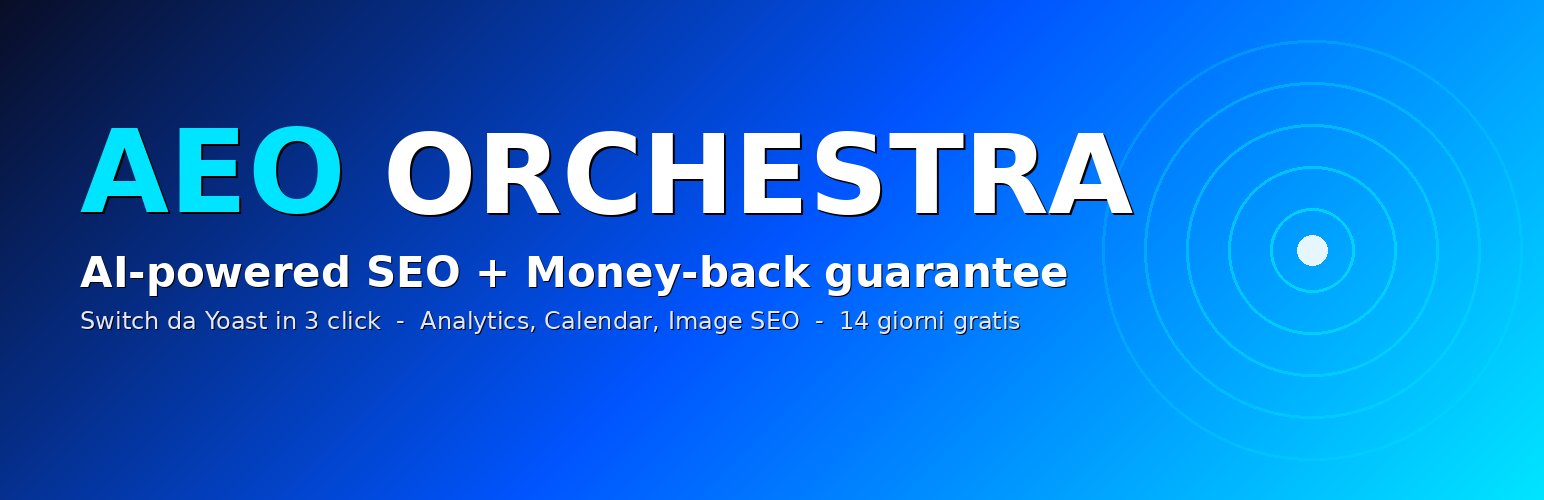
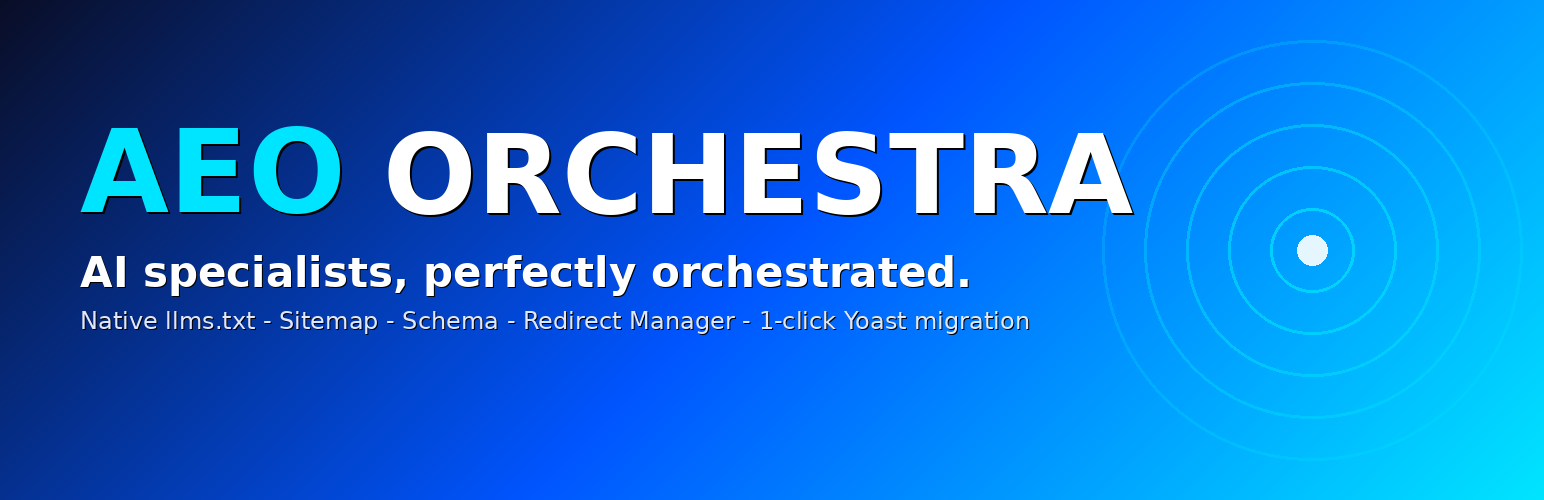
chore: sync Free build to v3.35.44 (canonical claim)
Mirror of WP.org submission seo-aeo-orchestra-wporg-3.35.44.zip:
- Plugin Version + readme.txt Stable tag bumped to 3.35.44
- Plugin description updated with canonical claim
- readme.txt new tagline + FAQ "How many AI agents and integrated tools"
- wizard-home.php: subtitle non-numerical + dynamic 4th hero stat tile
- PHP const SEO_AEO_AGENTS_COUNT=12 / SEO_AEO_TOOLS_COUNT=18 in main file
- Banners regenerated with new claim
- New product-image-800x500.png asset for marketplace listings
- Translations consolidated in 4 languages (en/es/fr/de)
- README.md updated: claim tagline + v3.35.44 release link + clone URL typo fix

Changed region(s): [[0.0311, 0.51, 0.715, 0.66]]

diff --git a/assets/wp-org/generate_assets.py b/assets/wp-org/generate_assets.py
@@ -174,13 +174,13 @@ def make_banner(width, height, out_path,
     # Tagline
     tag_y = logo_y + logo_size + line_gap
     draw_text_with_shadow(draw, (pad_left, tag_y),
-                          "AI-powered SEO + Money-back guarantee",
+                          "AI specialists, perfectly orchestrated.",
                           font_tag, fill=WHITE, shadow_offset=1)
 
     # Sub-tagline
     sub_y = tag_y + tag_size + int(line_gap * 0.6)
     draw_text_with_shadow(draw, (pad_left, sub_y),
-                          "Switch da Yoast in 3 click  -  Analytics, Calendar, Image SEO  -  14 giorni gratis",
+                          "Native llms.txt - Sitemap - Schema - Redirect Manager - 1-click Yoast migration",
                           font_sub, fill=SOFT, shadow_offset=1)
 
     img.save(out_path, "PNG", optimize=True)
@@ -228,6 +228,76 @@ def make_icon(size, out_path, corner_radius, mono_size_ratio=0.55):
     return out_path
 
 
+
+
+# ──────────────────────────────────────────────────────────────
+# Product Image 800x500 (for deal pages, marketplace listings)
+# ──────────────────────────────────────────────────────────────
+def make_product_image(width, height, out_path):
+    img = make_diagonal_gradient(width, height, GRADIENT_COLORS)
+    img = draw_wave_decoration(
+        img,
+        cx=int(width * 0.86),
+        cy=int(height * 0.5),
+        max_radius=int(height * 0.46),
+        color_hex=CYAN,
+        rings=5,
+    )
+    draw = ImageDraw.Draw(img)
+
+    pad_left = 56
+    # Logo block
+    logo_size = 64
+    aeo_size = int(logo_size * 1.05)
+    font_logo = find_font(logo_size, bold=True)
+    font_aeo = find_font(aeo_size, bold=True)
+    logo_y = 50
+    aeo_w = draw.textlength("AEO", font=font_aeo)
+    draw_text_with_shadow(draw, (pad_left, logo_y - 3), "AEO", font_aeo, fill=CYAN, shadow_offset=2)
+    draw_text_with_shadow(draw, (pad_left + int(aeo_w), logo_y), " ORCHESTRA", font_logo, fill=WHITE, shadow_offset=2)
+
+    # Eyebrow
+    font_eyebrow = find_font(16, bold=False)
+    draw_text_with_shadow(draw, (pad_left, logo_y + logo_size + 14),
+                          "AEO  -  SEO  -  GEO  for  WordPress",
+                          font_eyebrow, fill=SOFT, shadow_offset=1)
+
+    # Hero claim — main canonical line
+    font_hero = find_font(46, bold=True)
+    draw_text_with_shadow(draw, (pad_left, 220),
+                          "AI specialists,",
+                          font_hero, fill=WHITE, shadow_offset=2)
+    draw_text_with_shadow(draw, (pad_left, 270),
+                          "perfectly orchestrated.",
+                          font_hero, fill=CYAN, shadow_offset=2)
+
+    # Feature list
+    font_feat = find_font(20, bold=False)
+    draw_text_with_shadow(draw, (pad_left, 350),
+                          "Native llms.txt  -  Sitemap  -  Schema  -  Redirects  -  Brand Voice",
+                          font_feat, fill=SOFT, shadow_offset=1)
+
+    # Bottom dark chip with engines
+    chip_text = "Optimized for ChatGPT  -  Claude  -  Perplexity  -  Gemini  -  Google AI Overviews"
+    font_chip = find_font(15, bold=True)
+    bbox = draw.textbbox((0, 0), chip_text, font=font_chip)
+    chip_pad_x, chip_pad_y = 18, 10
+    chip_w = bbox[2] - bbox[0] + chip_pad_x * 2
+    chip_h = bbox[3] - bbox[1] + chip_pad_y * 2
+    chip_y = height - chip_h - 36
+    draw.rounded_rectangle(
+        [pad_left, chip_y, pad_left + chip_w, chip_y + chip_h],
+        radius=20,
+        fill=(10, 14, 39),
+        outline=(0, 229, 255),
+        width=1,
+    )
+    draw.text((pad_left + chip_pad_x, chip_y + chip_pad_y - 1), chip_text, font=font_chip, fill=WHITE)
+
+    img.save(out_path, "PNG", optimize=True)
+    return out_path
+
+
 def main():
     os.makedirs(OUT_DIR, exist_ok=True)
 
@@ -260,6 +330,12 @@ def main():
     p4 = os.path.join(OUT_DIR, "icon-128x128.png")
     make_icon(128, p4, corner_radius=12)
     results.append(p4)
+
+
+    # Product Image 800x500 (deal pages, marketplaces)
+    p5 = os.path.join(OUT_DIR, "product-image-800x500.png")
+    make_product_image(800, 500, p5)
+    results.append(p5)
 
     # Report
     for p in results:

diff --git a/languages/strings-en.php b/languages/strings-en.php
@@ -14,6 +14,24 @@ if ( ! defined( 'ABSPATH' ) ) { exit; }
  */
 return array(
 
+    'Specialisti AI orchestrati e strumenti integrati nel plugin. Cresce a ogni release.' => 'Orchestrated AI specialists and integrated tools in the plugin. Grows with every release.',
+    'Specialisti AI &middot; Strumenti' => 'AI Specialists &middot; Tools',
+    'Crea e gestisci redirect 301/302, importa da Yoast/Redirection, AI 404 suggester.' => 'Create and manage 301/302 redirects, import from Yoast/Redirection, AI 404 suggester.',
+    'Calendario AI' => 'AI Calendar',
+    'Pianifica articoli su date specifiche. AI genera N giorni prima, auto-pubblica. Bulk wizard.' => 'Schedule articles on specific dates. AI generates N days in advance, auto-publishes. Bulk wizard.',
+    'Image SEO' => 'Image SEO',
+    'Audit + bulk fix metadata immagini con AI Vision. Alt/title/caption auto-generati.' => 'Audit and bulk-fix image metadata with AI Vision. Alt/title/caption auto-generated.',
+    'Insights GSC + 5 KPI Orchestra proprietari. Sparkline period 7/28/90gg.' => 'GSC Insights and 5 proprietary Orchestra KPIs. Sparklines for 7/28/90 days.',
+    'Vedi quali pagine ricevono impressioni e clic da Google, l\'andamento giornaliero e l\'impatto di AEO Orchestra sul tuo posizionamento.' => 'See which pages get impressions and clicks from Google, daily trends, and how AEO Orchestra impacts your rankings.',
+    'Sostituisce il <head> di Yoast/RankMath/AIOSEO con output nativo Orchestra. Title, meta description, OpenGraph, Twitter Cards, canonical, sitemap.xml, llms.txt e schema JSON-LD strutturato.' => 'Replaces the <head> of Yoast/RankMath/AIOSEO with native Orchestra output. Title, meta description, OpenGraph, Twitter Cards, canonical, sitemap.xml, llms.txt and structured JSON-LD schema.',
+    'Gestisci redirect 301/302/307/308 con regex e backreferences, importa redirect da Yoast Premium o plugin Redirection, AI 404 suggester.' => 'Manage 301/302/307/308 redirects with regex and backreferences, import from Yoast Premium or the Redirection plugin, AI 404 suggester.',
+    'Caricamento Redirect Manager…' => 'Loading Redirect Manager…',
+    'Trova le pagine in conflitto sulla stessa keyword. L\'AI propone una pagina primaria, suggerisce keyword alternative per le supporting e link interni — il tutto applicabile con un click, sempre reversibile.' => 'Find pages competing for the same keyword. AI picks a primary page, suggests alternative keywords for supporting pages, and proposes internal links — all applicable with one click, always reversible.',
+    '2 articoli a settimana' => '2 articles per week',
+    '3 articoli a settimana' => '3 articles per week',
+    'Seleziona tutti i pianificati' => 'Select all scheduled',
+    'Elimina selezionati' => 'Delete selected',
+    'Specialisti AI orchestrati. Clicca per andare alla sezione.' => 'Orchestrated AI specialists. Click to jump to a section.',
     // ─── Submenu admin labels ───
     '📊 Dashboard'           => '📊 Dashboard',
     '🪄 Wizard'              => '📊 Dashboard',
@@ -62,7 +80,6 @@ return array(
     '→ Apri Orchestratore'                                                               => '→ Open Orchestrator',
 
     '🧩 Tutte le sezioni del plugin'         => '🧩 All plugin sections',
-    '11 strumenti integrati. Clicca per andare alla sezione.' => '11 integrated tools. Click to jump to a section.',
 
     // Cards descriptions in feature grid
     'Orchestratore'           => 'Orchestrator',
@@ -937,7 +954,6 @@ return array(
     'cliché 1, cliché 2, ...'            => 'cliché 1, cliché 2, ...',
 
     // ─── PHP wrapped (wizard-home + dashboard) ───
-    '15 strumenti integrati. Clicca per andare alla sezione.' => '15 integrated tools. Click to jump to the section.',
     '25 crediti'                         => '25 credits',
     'Funzioni dello stack Native attive: Output Renderer, Override Mode, Sitemap.xml, llms.txt, Schema, Redirect Manager. Più sono attive, più Yoast/RankMath sono sostituiti.' => 'Active Native stack features: Output Renderer, Override Mode, Sitemap.xml, llms.txt, Schema, Redirect Manager. The more active, the more Yoast/RankMath is replaced.',
     'Hai già un plugin SEO? Il Wizard fa shadow-copy reversibile dei tuoi meta + redirect e attiva lo stack Native — Yoast resta installato e silenziato (Override Mode). Niente perdita di ranking, niente downtime, e puoi tornare indietro in 30 secondi se cambi idea. Se preferisci testare prima senza migrare, salta questo step e prova le altre funzioni: Orchestra coesiste con Yoast.' => 'Already have an SEO plugin? The Wizard makes a reversible shadow-copy of your meta + redirects and activates the Native stack — Yoast stays installed but silenced (Override Mode). No ranking loss, no downtime, and you can roll back in 30 seconds if you change your mind. If you prefer to test without migrating first, skip this step and try the other features: Orchestra coexists with Yoast.',

diff --git a/seo-aeo-orchestra.php b/seo-aeo-orchestra.php
@@ -3,8 +3,8 @@
 /**
  * Plugin Name: AEO Orchestra
  * Plugin URI: https://aeo-orchestra.com
- * Description: Plugin SEO + AEO completo: meta tags, generazione contenuti AI, analytics, calendario editoriale, Image SEO bulk, Brand Voice, migrazione da Yoast, garanzia rimborso.
- * Version: 3.35.43
+ * Description: Plugin SEO + AEO completo: specialisti AI perfettamente orchestrati per meta tags, content generation, schema, llms.txt, sitemap, redirect manager, brand voice e altro.
+ * Version: 3.35.44
  * Requires at least: 5.8
  * Tested up to: 6.9
  * Requires PHP: 7.4
@@ -27,7 +27,9 @@
  */
 if (!defined('ABSPATH')) exit;
 
-define('SEO_AEO_VERSION', '3.35.43');
+define('SEO_AEO_VERSION', '3.35.44');
+define('SEO_AEO_AGENTS_COUNT', 12);  // mirrors backend/helpers/config.py AGENTS_COUNT — bump on every new agent
+define('SEO_AEO_TOOLS_COUNT', 18);   // mirrors backend/helpers/config.py TOOLS_COUNT — bump on every new tool
 define('SEO_AEO_DIR', plugin_dir_path(__FILE__));
 define('SEO_AEO_URL', plugin_dir_url(__FILE__));
 define('SEO_AEO_PLUGIN_DIR', SEO_AEO_DIR);

diff --git a/templates/wizard-home.php b/templates/wizard-home.php
@@ -48,6 +48,10 @@ $seo_aeo_total_features = 5;
                         <div class="orch-wiz-stat-value"><?php echo $seo_aeo_bv_active ? '🎙️ ' . esc_html($seo_aeo_bv_active['_name']) : '—'; ?></div>
                         <div class="orch-wiz-stat-label"><?php SEO_AEO_T::e('Brand Voice'); ?></div>
                     </div>
+                    <div class="orch-wiz-stat" title="<?php echo esc_attr(SEO_AEO_T::t('Specialisti AI orchestrati e strumenti integrati nel plugin. Cresce a ogni release.')); ?>">
+                        <div class="orch-wiz-stat-value"><?php echo (int) SEO_AEO_AGENTS_COUNT; ?> &middot; <?php echo (int) SEO_AEO_TOOLS_COUNT; ?></div>
+                        <div class="orch-wiz-stat-label"><?php SEO_AEO_T::e('Specialisti AI &middot; Strumenti'); ?> <span style="cursor:help;opacity:.6;font-size:.8em;">&#9432;</span></div>
+                    </div>
                 </div>
             </div>
         </div>
@@ -100,7 +104,7 @@ $seo_aeo_total_features = 5;
     <!-- FEATURE GRID -->
     <section class="orch-wiz-section">
         <h2 class="orch-wiz-section-title"><?php SEO_AEO_T::e('🧩 Tutte le sezioni del plugin'); ?></h2>
-        <p class="orch-wiz-section-sub"><?php SEO_AEO_T::e('18 strumenti integrati. Clicca per andare alla sezione.'); ?></p>
+        <p class="orch-wiz-section-sub"><?php SEO_AEO_T::e('Specialisti AI orchestrati. Clicca per andare alla sezione.'); ?></p>
 
         <div class="orch-wiz-grid">
             <a href="<?php echo esc_url((defined('SEO_AEO_IS_FREE') && SEO_AEO_IS_FREE ? admin_url('admin.php?page=seo-aeo-pro') : admin_url('admin.php?page=seo-aeo-orchestratore'))); ?>" class="orch-wiz-card">

diff --git a/languages/strings-de.php b/languages/strings-de.php
@@ -11,6 +11,7 @@ if ( ! defined( 'ABSPATH' ) ) { exit; }
  */
 return array(
 
+    'Specialisti AI orchestrati. Clicca per andare alla sezione.' => 'Orchestrierte KI-Spezialisten. Klicke, um zum Bereich zu springen.',
     // ─── Submenu admin labels ───
     '📊 Dashboard'           => '📊 Dashboard',
     '🪄 Wizard'              => '🪄 Assistent',
@@ -59,7 +60,6 @@ return array(
     '→ Apri Orchestratore'                                                               => '→ Orchestrator öffnen',
 
     '🧩 Tutte le sezioni del plugin'         => '🧩 Alle Plugin-Bereiche',
-    '11 strumenti integrati. Clicca per andare alla sezione.' => '11 integrierte Tools. Klicke, um zum Bereich zu springen.',
 
     // Cards descriptions in feature grid
     'Orchestratore'           => 'Orchestrator',
@@ -934,7 +934,6 @@ return array(
     'cliché 1, cliché 2, ...'            => 'klischee 1, klischee 2, ...',
 
     // ─── PHP wrapped (wizard-home + dashboard) ───
-    '15 strumenti integrati. Clicca per andare alla sezione.' => '15 integrierte Tools. Klick, um zum Abschnitt zu springen.',
     '25 crediti'                         => '25 Credits',
     'Funzioni dello stack Native attive: Output Renderer, Override Mode, Sitemap.xml, llms.txt, Schema, Redirect Manager. Più sono attive, più Yoast/RankMath sono sostituiti.' => 'Aktive Funktionen des Native-Stacks: Output Renderer, Override Mode, Sitemap.xml, llms.txt, Schema, Redirect Manager. Je mehr aktiv sind, desto mehr wird Yoast/RankMath ersetzt.',
     'Hai già un plugin SEO? Il Wizard fa shadow-copy reversibile dei tuoi meta + redirect e attiva lo stack Native — Yoast resta installato e silenziato (Override Mode). Niente perdita di ranking, niente downtime, e puoi tornare indietro in 30 secondi se cambi idea. Se preferisci testare prima senza migrare, salta questo step e prova le altre funzioni: Orchestra coesiste con Yoast.' => 'Du hast schon ein SEO-Plugin? Der Wizard erstellt eine reversible Shadow-Copy deiner Meta + Redirects und aktiviert den Native-Stack — Yoast bleibt installiert, aber stillgelegt (Override Mode). Kein Ranking-Verlust, keine Downtime, und du kannst in 30 Sekunden zurück, falls du es dir anders überlegst. Wenn du erst testen willst ohne zu migrieren, überspring diesen Schritt und probier die anderen Funktionen aus: Orchestra koexistiert mit Yoast.',

diff --git a/languages/strings-es.php b/languages/strings-es.php
@@ -11,6 +11,7 @@ if ( ! defined( 'ABSPATH' ) ) { exit; }
  */
 return array(
 
+    'Specialisti AI orchestrati. Clicca per andare alla sezione.' => 'Especialistas IA orquestados. Haz clic para ir a la sección.',
     // ─── Submenu admin labels ───
     '📊 Dashboard'           => '📊 Panel',
     '🪄 Wizard'              => '🪄 Asistente',
@@ -59,7 +60,6 @@ return array(
     '→ Apri Orchestratore'                                                               => '→ Abrir Orquestador',
 
     '🧩 Tutte le sezioni del plugin'         => '🧩 Todas las secciones del plugin',
-    '11 strumenti integrati. Clicca per andare alla sezione.' => '11 herramientas integradas. Haz clic para ir a la sección.',
 
     // Cards descriptions in feature grid
     'Orchestratore'           => 'Orquestador',
@@ -934,7 +934,6 @@ return array(
     'cliché 1, cliché 2, ...'            => 'cliché 1, cliché 2, ...',
 
     // ─── PHP wrapped (wizard-home + dashboard) ───
-    '15 strumenti integrati. Clicca per andare alla sezione.' => '15 herramientas integradas. Haz clic para ir a la sección.',
     '25 crediti'                         => '25 créditos',
     'Funzioni dello stack Native attive: Output Renderer, Override Mode, Sitemap.xml, llms.txt, Schema, Redirect Manager. Più sono attive, più Yoast/RankMath sono sostituiti.' => 'Funciones del stack Native activas: Output Renderer, Override Mode, Sitemap.xml, llms.txt, Schema, Redirect Manager. Cuantas más estén activas, más se sustituye Yoast/RankMath.',
     'Hai già un plugin SEO? Il Wizard fa shadow-copy reversibile dei tuoi meta + redirect e attiva lo stack Native — Yoast resta installato e silenziato (Override Mode). Niente perdita di ranking, niente downtime, e puoi tornare indietro in 30 secondi se cambi idea. Se preferisci testare prima senza migrare, salta questo step e prova le altre funzioni: Orchestra coesiste con Yoast.' => '¿Ya tienes un plugin SEO? El Wizard hace una copia sombra reversible de tus meta + redirecciones y activa el stack Native — Yoast queda instalado pero silenciado (Override Mode). Sin pérdida de ranking, sin downtime y puedes revertirlo en 30 segundos si cambias de opinión. Si prefieres probar antes sin migrar, salta este paso y prueba las demás funciones: Orchestra coexiste con Yoast.',

diff --git a/languages/strings-fr.php b/languages/strings-fr.php
@@ -11,6 +11,7 @@ if ( ! defined( 'ABSPATH' ) ) { exit; }
  */
 return array(
 
+    'Specialisti AI orchestrati. Clicca per andare alla sezione.' => 'Spécialistes IA orchestrés. Cliquez pour aller à la section.',
     // ─── Submenu admin labels ───
     '📊 Dashboard'           => '📊 Tableau de bord',
     '🪄 Wizard'              => '🪄 Assistant',
@@ -59,7 +60,6 @@ return array(
     '→ Apri Orchestratore'                                                               => '→ Ouvrir Orchestrateur',
 
     '🧩 Tutte le sezioni del plugin'         => '🧩 Toutes les sections du plugin',
-    '11 strumenti integrati. Clicca per andare alla sezione.' => '11 outils intégrés. Cliquez pour aller à la section.',
 
     // Cards descriptions in feature grid
     'Orchestratore'           => 'Orchestrateur',
@@ -934,7 +934,6 @@ return array(
     'cliché 1, cliché 2, ...'            => 'cliché 1, cliché 2, ...',
 
     // ─── PHP wrapped (wizard-home + dashboard) ───
-    '15 strumenti integrati. Clicca per andare alla sezione.' => '15 outils intégrés. Cliquez pour aller à la section.',
     '25 crediti'                         => '25 crédits',
     'Funzioni dello stack Native attive: Output Renderer, Override Mode, Sitemap.xml, llms.txt, Schema, Redirect Manager. Più sono attive, più Yoast/RankMath sono sostituiti.' => 'Fonctions du stack Native actives : Output Renderer, Override Mode, Sitemap.xml, llms.txt, Schema, Redirect Manager. Plus elles sont actives, plus Yoast/RankMath est remplacé.',
     'Hai già un plugin SEO? Il Wizard fa shadow-copy reversibile dei tuoi meta + redirect e attiva lo stack Native — Yoast resta installato e silenziato (Override Mode). Niente perdita di ranking, niente downtime, e puoi tornare indietro in 30 secondi se cambi idea. Se preferisci testare prima senza migrare, salta questo step e prova le altre funzioni: Orchestra coesiste con Yoast.' => 'Vous avez déjà un plugin SEO ? L\'Assistant fait une shadow-copy réversible de vos meta + redirections et active le stack Native — Yoast reste installé mais silencé (Override Mode). Aucune perte de classement, aucun downtime, et vous pouvez revenir en arrière en 30 secondes si vous changez d\'avis. Si vous préférez tester sans migrer d\'abord, passez cette étape et essayez les autres fonctions : Orchestra coexiste avec Yoast.',

diff --git a/README.md b/README.md
@@ -1,5 +1,10 @@
 # AEO Orchestra — Free version
 
+> **AI specialists, perfectly orchestrated.**
+> One conductor. Many AI specialists. One symphony of search visibility.
+
+**Latest release**: [v3.35.44](https://github.com/jcappelliemer/aeo-orchestra/releases/tag/v3.35.44) — see [CHANGELOG](https://wordpress.org/plugins/aeo-orchestra/#developers) on WordPress.org.
+
 [![License: GPL v2](https://img.shields.io/badge/License-GPL%20v2-blue.svg)](https://www.gnu.org/licenses/gpl-2.0)
 [![WordPress 5.8+](https://img.shields.io/badge/WordPress-5.8%2B-21759b.svg)](https://wordpress.org/)
 [![PHP 7.4+](https://img.shields.io/badge/PHP-7.4%2B-777bb4.svg)](https://www.php.net/)
@@ -45,7 +50,7 @@ WP Admin → Plugins → Add New → search **"AEO Orchestra"** → Install → 
 ### From this repo (developers)
 ```bash
 cd wp-content/plugins/
-git clone https://github.com/jcappelli/aeo-orchestra.git
+git clone https://github.com/jcappelliemer/aeo-orchestra.git
 ```
 Then activate via WP Admin → Plugins.
 